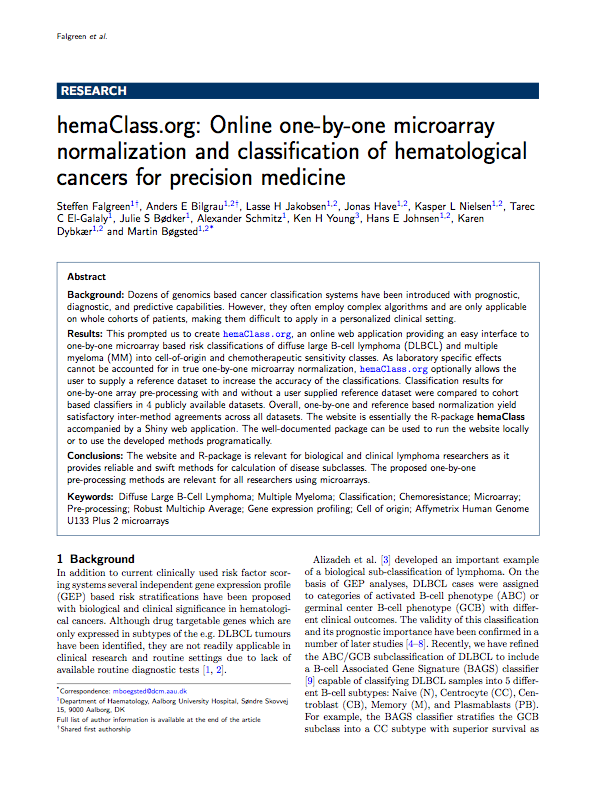
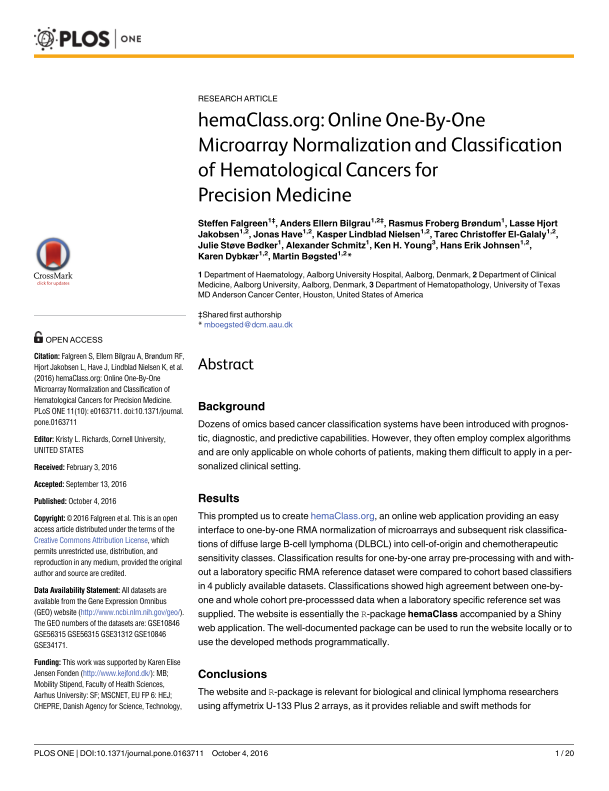
Updated Papers.html
Main paper has been published, updated list of publications with final
information.

diff --git a/inst/website/www/Papers.html b/inst/website/www/Papers.html
@@ -13,7 +13,7 @@
 <table width=100% border="0">
   <tr>
     <td width=20%>
-      <a href="http://www.blodet.dk" target="new">
+      <a href="http://journals.plos.org/plosone/article?id=10.1371/journal.pone.0163711" target="new">
         <img src="figures/Hemaclass.png" alt="Steffen Falgreen Larsen" align="top" width=90% height="190" />
       </a>
     </td>
@@ -28,7 +28,7 @@
         Julie Støve Bødker, Alexander Schmitz, Hans Erik Johnsen, 
         Karen Dybkær, and Martin Bøgsted
         <br/><br/>
-        Submitted to PLOS ONE 2016
+        Published in PLoS ONE October 2016, Vol. 11, Issue 10
       </p>
     </td>
   </tr>
